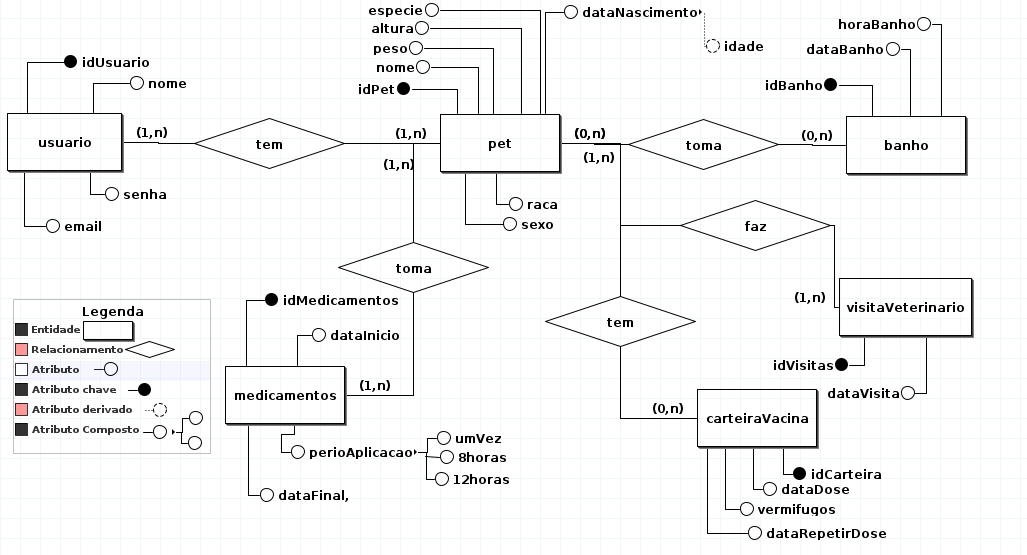
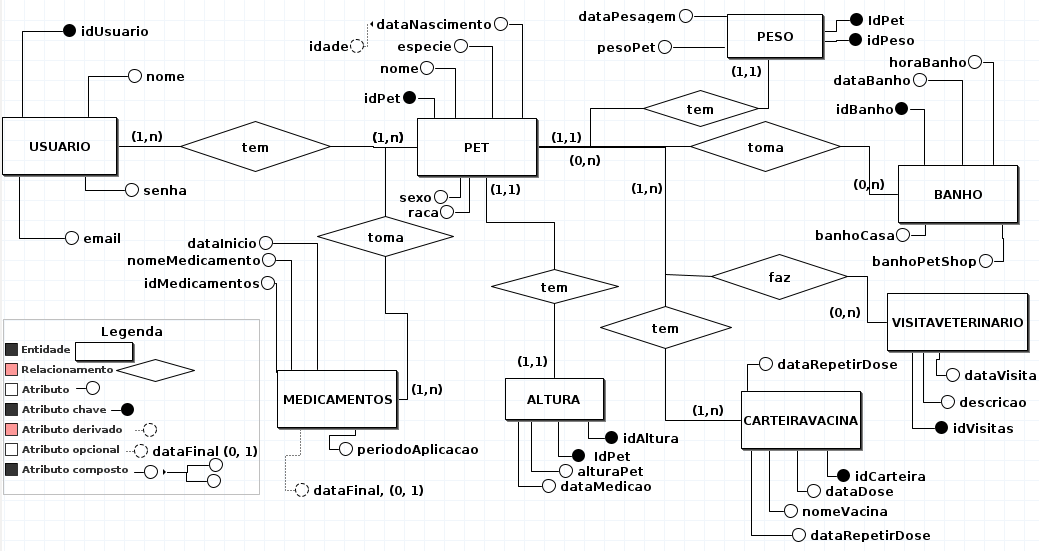
Corrigindo de acordo com a revisão

diff --git a/docs/pages/MER.md b/docs/pages/MER.md
@@ -5,6 +5,7 @@
 |    Data    | Versão |      Descrição       |     Autor(es)     |
 | :--------: | :----: | :------------------: | :---------------: |
 | 12/08/2021 |  0.1   | Criação do documento | Daniela Soares  |
+| 12/08/2021 |  0.2   | Revisão do documento | João Vitor Lopes |
 
 ## 1 Introdução
 <div align="justify">
@@ -13,7 +14,7 @@ O ME-R foi desenvolvido para facilitar o projeto de banco de dados, permitindo a
 
 ## 2 Modelo Entidade Relacionamento
 
-SISTEMA APP ANIMALESCO – Descrito pelas Entidades USUARIO, PET, BANHO, MEDICAMENTOS, CARTEIRAVACINA, VISITASVETERINARIO.
+SISTEMA APP ANIMALESCO – Descrito pelas Entidades USUARIO, PET, BANHO, MEDICAMENTOS, CARTEIRAVACINA, VISITASVETERINARIO, PESO, ALTURA.
 
 ### 2.1 Entidades e atributos
 #### 2.1.1 Entidade USUARIO
@@ -23,22 +24,28 @@ Representa os usuarios que deseja manter no sistema APP Animalesco. A ocorrêcia
 Representa os pets que deseja manter no sistema APP Animaslesco. A ocorrência da entidade pet terá associado os seguintes atributos: **idPet**, **nome**, **dataNascimento(idade)**, **peso**, **altura**, **especie**, **raca**, **sexo**.
 
 #### 2.1.3 Entidade BANHO
-Representa os banhos registrados no sistema APP Animalesco. A ocorrência da entidade banho terá associado os seguintes atributos: **idBanho**,  **dataBanho**, **horaBanho**.
+Representa os banhos registrados no sistema APP Animalesco. A ocorrência da entidade banho terá associado os seguintes atributos: **idBanho**,  **dataBanho**, **horaBanho**, **banhoCasa**, **banhoPetShop**.
 
 #### 2.1.4 Entidade MEDICAMENTOS
-Representa os medicamentos registrados no sistema APP Animalesco. A ocorrência da entidade medicamentos terá associado os seguintes atributos: **idMedicamentos**, **dataInicio**, **dataFinal**, **perioAplicacaoumVez, 12horas, 8horas)**.
+Representa os medicamentos registrados no sistema APP Animalesco. A ocorrência da entidade medicamentos terá associado os seguintes atributos: **idMedicamentos**, **nomeMedicamento**, **dataInicio**, **dataFinal**, **perioAplicacao(periodicidadeHoras)**.
 
 
 #### 2.1.5 Entidade CARTEIRAVACINA
-Representa as carteiras de vacinação registradas no sistema APP Animalesco. A ocorrência da entidade carteiraVacina terá associado os seguintes atributos: **idCarteira**, **dataDose**, **vermifugos**, **dataRepetirDose**.
+Representa as carteiras de vacinação registradas no sistema APP Animalesco. A ocorrência da entidade carteiraVacina terá associado os seguintes atributos: **idCarteira**,**nomeVacina**, **dataDose**, **dataRepetirDose**.
 
 #### 2.1.6 Entidade VISITASVETERINARIO
-Representa as visitas ao veterinario registradas no sistema APP Animalesco. A ocorrência da entidade visitasVeterinario terá associado os seguintes atributos: **idVisitas**, **dataVisita**.
+Representa as visitas ao veterinario registradas no sistema APP Animalesco. A ocorrência da entidade visitasVeterinario terá associado os seguintes atributos: **idVisitas**, **dataVisita**, **descricao**.
+
+#### 2.1.7 Entidade PESO
+Representa o peso registrado no sistema APP Animalesco. A ocorrência da entidade peso terá associado os seguintes atributos: **idPeso**, **idPet**, **pesoPet**, **dataPesagem**.
+
+#### 2.1.8 Entidade PESO
+Representa o altura registrado no sistema APP Animalesco. A ocorrência da entidade altura terá associado os seguintes atributos: **idAltura**, **idPet**, **alturaPet**, **dataMedicao**.
 
 ### 2.2 Relacionamentos
 
 #### 2.2.1 USUARIO - tem – PET
-Um usuário pode ter vários pets, assim como um pet pode pertencer a vários usuários. **Cardinalidade: n : m**.
+Um usuário pode ter vários pets, mas um pet não pertencer a vários usuários. **Cardinalidade: n : m**.
 
 #### 2.2.2 PET - toma – BANHO
 Um pet pode tomar vários banhos, mas um  um banho não  pode limpar vários pets. 
@@ -51,7 +58,13 @@ Um pet pode tomar vários medicamentos, assim como um medicamento pode pertencer
 Um pet pode ter várias carteiras de vacinas mas uma carteira de vacina não pode ter  vários pets. **Cardinalidade: n : m**.
 
 #### 2.2.5 PET - faz -  VISITASVETERINARIO
-Um pet pode fazer várias visitas ao veterinario assim como em uma visita ao veterinário pode ter vários pets. **Cardinalidade: n : m**.
+Um pet pode fazer várias visitas ao veterinario mas uma visita é realizada por apenas um pet. **Cardinalidade: n : m**.
+
+#### 2.2.6 PET - ter – PESO
+Um pet não pode ter varios pesos, assim como um peso não pode pertencer a vários pet. **Cardinalidade: n : m**.
+
+#### 2.2.6 PET - ter – ALTURA
+Um pet não pode ter varias alturas, assim como uma altura não pode pertencer a vários pet. **Cardinalidade: n : m**.
 
 </div>
 
